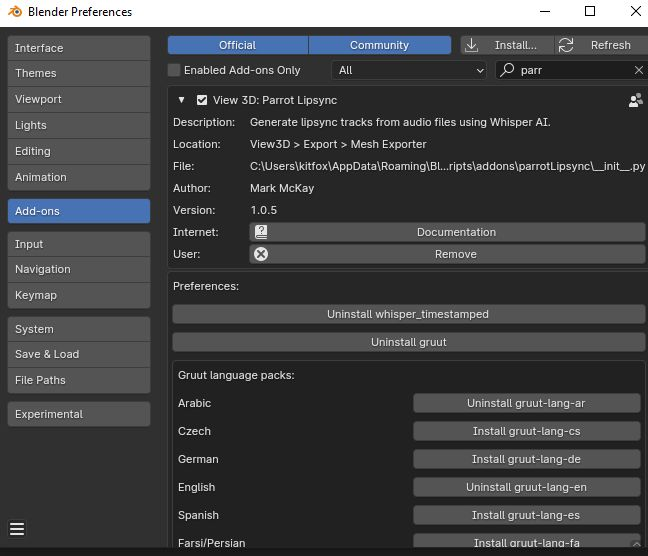
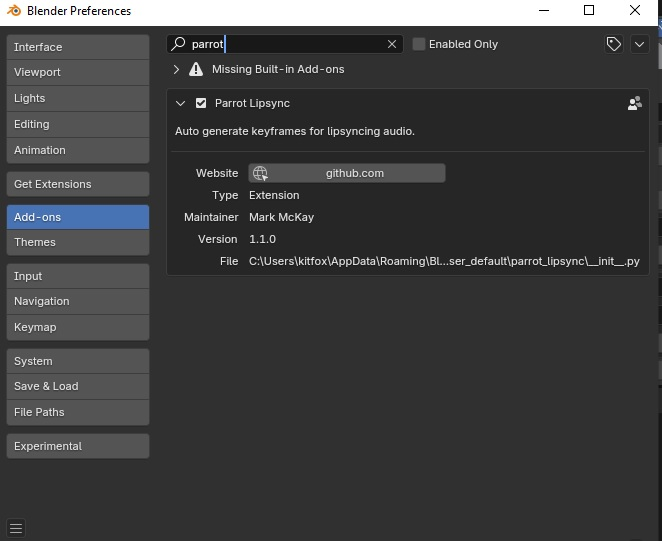
Updating docs.

diff --git a/source/parrot_lipsync.py b/source/parrot_lipsync.py
@@ -662,135 +662,3 @@ class PLUGIN_OT_ParrotReloadPhonemeTable(bpy.types.Operator):
         return {'FINISHED'}
 
 
-
-
-
-# class ParrotAddonPreferences(bpy.types.AddonPreferences):
-    # bl_idname = __package__
-
-
-    # def add_installer_button(self, context, layout, lib_name):
-        # if is_library_installed(lib_name):
-            # op_props = layout.operator(LibraryUninstaller.bl_idname, text="Uninstall " + lib_name)
-            # op_props.lib_name = lib_name
-        # else:
-            # op_props = layout.operator(LibraryInstaller.bl_idname, text="Install " + lib_name)
-            # op_props.lib_name = lib_name
-
-    # def draw(self, context):
-    
-        # layout = self.layout
-        # layout.use_property_split = True
-        # #layout.prop(self, 'port')
-          
-        # self.add_installer_button(context, layout, "whisper_timestamped")
-# #        self.add_installer_button(context, layout, "phonemizer")
-# #        self.add_installer_button(context, layout, "espeak_phonemizer")
-        # self.add_installer_button(context, layout, "gruut")
-
-# #        self.add_installer_button(context, layout, "jphones")
-        
-        # box_gruut = layout.box()
-        # box_gruut.label(text="Gruut language packs:")
-
-        # gruut_lang_packs = [
-            # ["Arabic", "gruut-lang-ar"],
-            # ["Czech", "gruut-lang-cs"],
-            # ["German", "gruut-lang-de"],
-            # ["English", "gruut-lang-en"],
-            # ["Spanish", "gruut-lang-es"],
-            # ["Farsi/Persian", "gruut-lang-fa"],
-            # ["French", "gruut-lang-fr"],
-            # ["Italian", "gruut-lang-it"],
-            # ["Luxembourgish", "gruut-lang-lb"],
-            # ["Dutch", "gruut-lang-nl"],
-            # ["Portuguese", "gruut-lang-pt"],
-            # ["Russian", "gruut-lang-ru"],
-            # ["Sweedish", "gruut-lang-sv"],
-            # ["Swahili", "gruut-lang-sw"],
-        # ]
-
-        # for tuple in gruut_lang_packs:
-            # row = box_gruut.row()
-            # row.label(text=tuple[0])
-            # self.add_installer_button(context, row, tuple[1])
-
-        # # box_other = layout.box()
-        # # box_other.label(text="Other languages:")
-
-        # # other_lang_packs = [
-        # #     ["Japanese", "jphones"],
-        # # ]
-
-        # # for tuple in other_lang_packs:
-        # #     row = box_other.row()
-        # #     row.label(text=tuple[0])
-        # #     self.add_installer_button(context, row, tuple[1])
-        
-
-# class LibraryInstaller(bpy.types.Operator):
-    # bl_idname = "parrot.library_installer"
-    # bl_label = "Install python library"
-
-    # lib_name: bpy.props.StringProperty(
-            # name="Library name",
-            # description="Name of library to be installed",
-            # default="whisper_timestamped"
-        # )
-
-    # def execute(self, context):
-        # python = os.path.abspath(sys.executable)
-        
-        # self.report({'INFO'}, "Installing '" + str(self.lib_name) + "' package.")
-        # # Verify 'pip' package manager is installed.
-        # try:
-            # context.window.cursor_set('WAIT')
-            # subprocess.call([python, "-m", "ensurepip"])
-            # # Upgrade 'pip'. This shouldn't be needed.
-            # # subprocess.call([python, "-m", "pip", "install", "--upgrade", "pip", "--yes"])
-        # except Exception:
-            # self.report({'ERROR'}, "Failed to verify 'pip' package manager installation.")
-            # return {'FINISHED'}
-        # finally:
-            # context.window.cursor_set('DEFAULT')
-        
-        # # Install 'whisper_timestamped' package.
-        # try:
-            # context.window.cursor_set('WAIT')
-            # subprocess.call([python, "-m", "pip", "install", str(self.lib_name)])
-        # except Exception:
-            # self.report({'ERROR'}, "Failed to install '" + str(self.lib_name) + "' package.")
-            # return {'FINISHED'}
-        # finally:
-            # context.window.cursor_set('DEFAULT')
-        
-        # self.report({'INFO'}, "Successfully installed '" + str(self.lib_name) + "' package.")
-        # return {'FINISHED'}
-        
-# class LibraryUninstaller(bpy.types.Operator):
-    # bl_idname = "parrot.library_uninstaller"
-    # bl_label = "Uninstall python library"
-
-    # lib_name: bpy.props.StringProperty(
-            # name="Library name",
-            # description="Name of library to be installed",
-            # default="whisper_timestamped"
-        # )
-
-    # def execute(self, context):
-        # python = os.path.abspath(sys.executable)
-        # self.report({'INFO'}, "Uninstalling '" + self.lib_name + "' package.")
-        
-        # # Uninstall package.
-        # try:
-            # context.window.cursor_set('WAIT')
-            # subprocess.call([python, "-m", "pip", "uninstall", self.lib_name, "--yes"])
-        # except Exception:
-            # self.report({'ERROR'}, "Failed to uninstall '" + self.lib_name + "' package.")
-            # return {'FINISHED'}
-        # finally:
-            # context.window.cursor_set('DEFAULT')
-        
-        # self.report({'INFO'}, "Successfully uninstalled '" + self.lib_name + "' package.")
-        # return {'FINISHED'}
-

diff --git a/make.py b/make.py
@@ -51,6 +51,23 @@ python_modules = [
 # "gruut-lang-sw",
 ]
 
+# wheels_no_deps = [
+    # "allosaurus", "resampy", "panphon", "requests", "tqdm",    
+    # "filelock", "fsspec", "jinja2", "mpmath", "munkres", "networkx", "panphon", 
+# ]
+
+# wheels_bin = [
+    # "scipy", "torch", "editdistance", 
+    # "editdistance", "llvmlite", "MarkupSafe", "numba", 
+# ]
+
+# wheels_bin = [
+    # ["allosaurus", "--no-deps", "macosx_14_0_arm64"],
+    # ["scipy", "--only-binary=:all:", "macosx_14_0_arm64"],
+# ]
+
+#https://files.pythonhosted.org/packages/07/85/3ef1d2f70736bef5650c7fedbf4d4e01efe728f10bad0294a9a8d396ff00/allosaurus-1.0.2-py3-none-any.whl
+
 #pip download scipy --dest ./wheels-extra-mac --only-binary=:all: --platform=macosx_14_0_arm64
 #pip download scipy --dest ./wheels-extra-mac --only-binary=:all: --platform=macosx_14_0_x86_64
 
@@ -77,8 +94,8 @@ def build_wheels():
         for module in python_modules:
             #pip.main(["download", module, "--dest", "source/wheels", "--only-binary=:all:", "--python-version=3.11", "--platform=" + plat])
 
-#            subprocess.call(["pip", "wheel", "numba", "-w", "source/wheels2"])
-            subprocess.call(["python", "-m", "pip", "wheel", "--wheel-dir", "source/wheels", "--only-binary=:all:", module])
+            subprocess.call(["pip", module, "numba", "-w", "source/wheels2"])
+#            subprocess.call(["python", "-m", "pip", "wheel", "--wheel-dir", "source/wheels", "--only-binary=:all:", module])
             
 
 def build_extension():

diff --git a/README.md b/README.md
@@ -1,6 +1,6 @@
 # Parrot Automatic Lipsync for Blender
 
-This is an addon for Blender that lets you automatically generate lip-synced data from audio tracks.  It can be used for both 2D and 3D animations and supports many common languages.  It uses OpenAI's Whisper library to turn spoken audio tracks into words, and then Gruut to turn words into phonemes to create the key frames for your mouth positions.
+Parrot Lipsync is an extension for Blender that lets you automatically generate lip-synced data from audio tracks.  It can be used for both 2D and 3D animations and supports many common languages.  It uses the `allosaurus` library to turn spoken audio tracks into phonemes which are then used to key frame your mouth positions.
 
 [![Video - overview](https://img.youtube.com/vi/VCXyHdBmBwQ/0.jpg)](https://www.youtube.com/watch?v=VCXyHdBmBwQ)
 
@@ -10,12 +10,12 @@ This is an addon for Blender that lets you automatically generate lip-synced dat
 
 ## Installation
 
-Parrot Lipsync relies on you having some other applications already installed on your computer.
+Parrot Lipsync relies on you having `ffmpeg` already installed on your computer.
 
 
 ### Install Ffmpeg
 
-Ffmpeg is a popular library that lets you read and write many popular media files.  It needs to be accessible from the command line.
+[Ffmpeg](https://ffmpeg.org/) is a popular library that lets you read and write many audio/video files.  It needs to be accessible from the command line.
 
 Open a command prompt and type the following to see if it is already installed:
 
@@ -43,41 +43,10 @@ scoop install ffmpeg
 ```
 
 
-### Installing the Parrot Lipsync addon
+### Installing the Parrot Lipsync extension
 
-Now that ffmpeg is installed, you can install Parrot by opening the `Edit > Preferences > Addons` window and clicking the `Install` button.  Browse to the Parrot Lipsync zip file you downloaded and select it.  Finally, make sure the check mark next to `View 3D: Parrot Lipsync` is checked so that the addon is activated.
+Now that ffmpeg is installed, you can install Parrot by opening the `Edit > Preferences > Addons` tab, clicking the downward pointing arrow button in the top right corner and selecting `Install from Disk...`.  Browse to the Parrot Lipsync zip file you downloaded and select it.  Finally, make sure the check mark next to `View 3D: Parrot Lipsync` is checked so that the extension is activated.
 
-### Install Whisper and Gruut
-
-Parrot needs some support libraries to function.  The easiest way to install them is to open Parrot's configuration page in the `Addon` window to reveal the buttons on the bottom.  Press the `Install whisper_timestamped` and `Install gruut` buttons to ensure these necessary libraries are added to your Blender's python packages.  Some languages will require an additional package - for example, if you intend to use the Russian language, make sure to click the `Install gruut-lang-ru` button as well.
-
-![Addon install panel](doc/addon_install_panel.jpg)
-
-
-### Alternate installation procedure for Whisper and Gruut
-
-It is also possible to install Whsiper and Gruut on the command line as well if you don't want to use the installation panel.
-
-Open a terminal window and go into your Blender installation's python directory (on Windows it should be something like `C:\Program Files\Blender Foundation\Blender 4.0\4.0\python\bin`).  Then issue the following commands:
-
-```
-./python.exe -m pip install --upgrade whisper_timestamped
-./python.exe -m pip install --upgrade gruut
-```
-
-For MacOS and Linux, the following should work:
-
-```
-./python -m pip install --upgrade whisper_timestamped
-./python -m pip install --upgrade gruut
-```
-
-Some languages will require additional packages to be installed:
-
-```
-Russian:
-./python.exe -m pip install --upgrade gruut-lang-ru
-```
 
 ## Usage
 
@@ -169,11 +138,8 @@ The `phonemes` section is where you let Parrot know which phoneme symbols belong
 
 ## Acknowledgements
 
-Whisper AI
-https://github.com/openai/whisper
-
-Gruut
-https://rhasspy.github.io/gruut/index.html
+allosaurus
+https://github.com/xinjli/allosaurus
 
 Blender Base Meshes:
 https://studio.blender.org/training/stylized-character-workflow/base-meshes/
